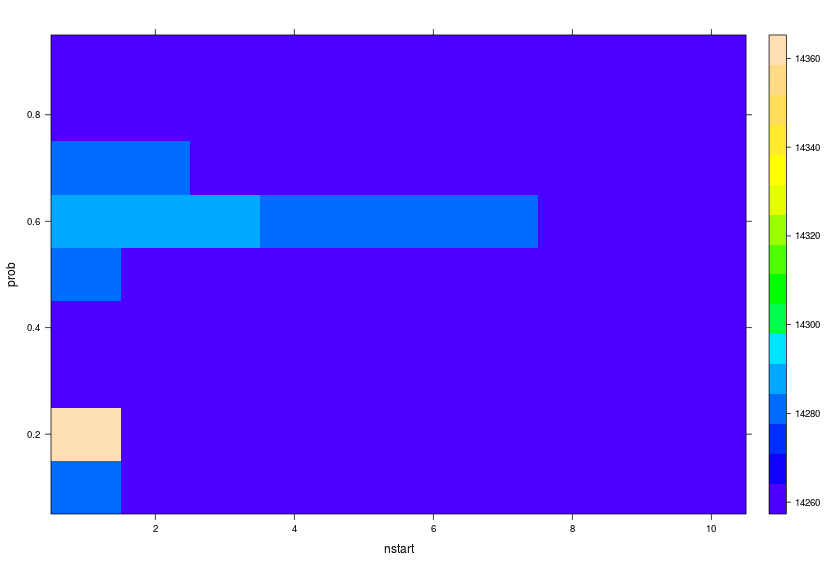
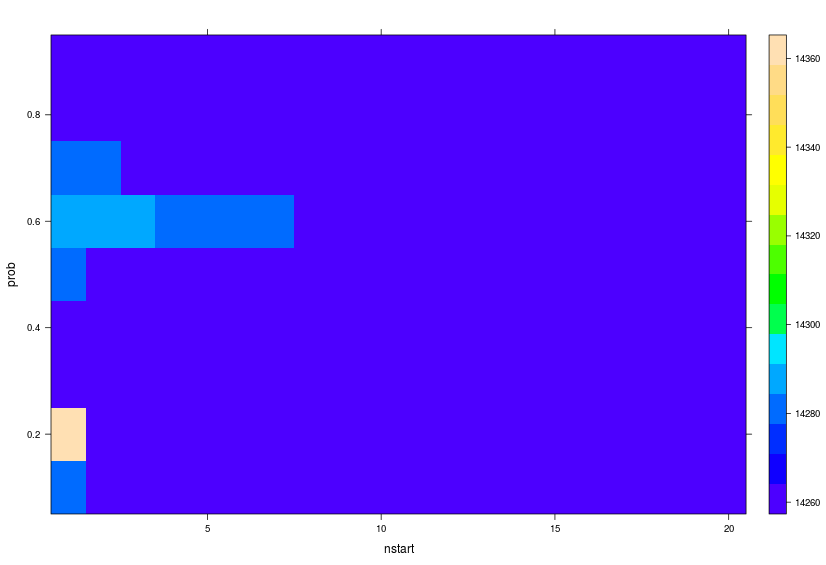
data corrected, report updated

diff --git a/report/report.tex b/report/report.tex
@@ -128,6 +128,8 @@ same model from the empty model if the penalty for complexity is low: it will
 be less likely that the algorithm will stop because the model is too complex.
 
 \section*{Question H}
+The algorithm has been executed for several configurations of the parameters \texttt{nstart} and \texttt{prob} with respect to both AIC and BIC.
+The findings have been plotted in level graphs which can be found in in Figure~\ref{fig:aic_plot} and Figure~\ref{fig:bic_plot} respectively.
 
 \begin{figure}[H]
     \centering
@@ -143,8 +145,16 @@ be less likely that the algorithm will stop because the model is too complex.
 \label{fig:bic_plot}
 \end{figure}
 
+To get a reliable idea of the score distribution as function of \texttt{nstart} and \texttt{prob}, one should do muliple runs for each configuration of the parameters.
+However, this takes much computational time and is outside the scope of this assignment.
+
 One can immediately see that the score improves as \texttt{nstart} increases.
-This is very natural, as the result cannot get worse when more restarts are done.
+This is natural, as the result cannot get worse when more restarts are done.
+Moreover, it is clear that the algorithm converges much faster with the AIC score than with the
+BIC score.
+The influence of \texttt{prob} on the score (both AIC and BIC) is less clear.
+One observation that we can make from the graph is that choosing a low value for
+\texttt{prob} doesn't seem to pay off well for the BIC score.
 
 \subsection*{Model with best AIC score}
 The model with the best AIC score that we've encountered is the following.
